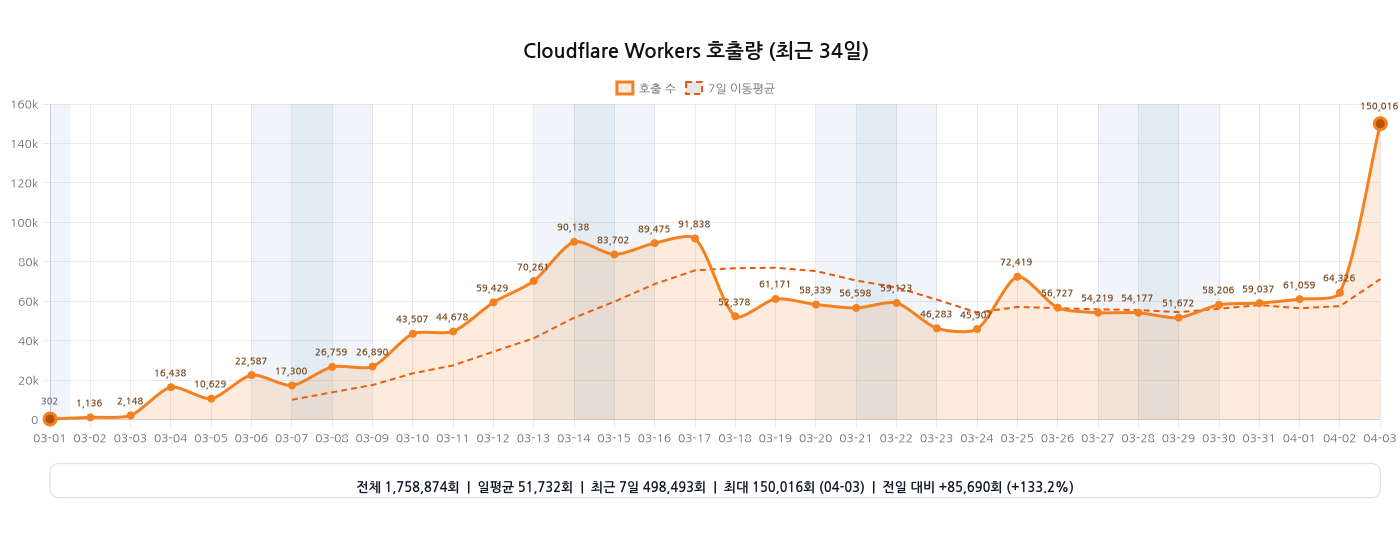
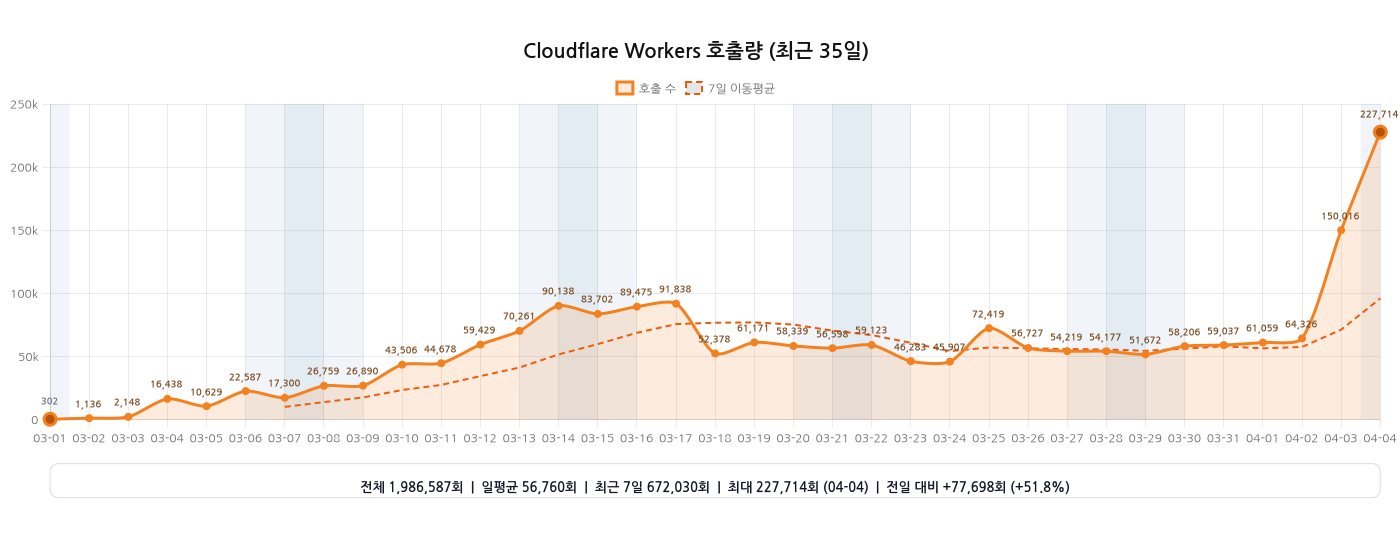
chore: 워커 호출량 그래프 자동 갱신

diff --git a/README.md b/README.md
@@ -18,11 +18,11 @@
 [![Coverage](https://github.com/hmmhmmhm/daiso-mcp/actions/workflows/coverage.yml/badge.svg?branch=main)](https://github.com/hmmhmmhm/daiso-mcp/actions/workflows/coverage.yml)
 
 <!-- WORKERS_INVOCATIONS_CHART:START -->
-<h3>Cloudflare Workers 호출량 (2026-03-01 ~ 2026-04-03, 34일)</h3>
+<h3>Cloudflare Workers 호출량 (2026-03-01 ~ 2026-04-04, 35일)</h3>
 
-<img src="./assets/analytics/workers-invocations.png?v=2026-04-03T15:35:30.212Z" alt="Cloudflare Workers 호출량 그래프 (2026-03-01 ~ 2026-04-03)" width="100%">
+<img src="./assets/analytics/workers-invocations.png?v=2026-04-04T15:33:09.532Z" alt="Cloudflare Workers 호출량 그래프 (2026-03-01 ~ 2026-04-04)" width="100%">
 
-<sub>기준 워커: <code>daiso-mcp</code> · 마지막 갱신: 2026-04-04 00:35 KST</sub>
+<sub>기준 워커: <code>daiso-mcp</code> · 마지막 갱신: 2026-04-05 00:33 KST</sub>
 
 <!-- WORKERS_INVOCATIONS_CHART:END -->
 
